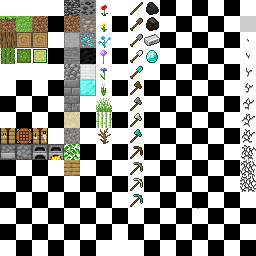
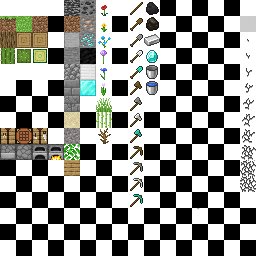
adding buckets, not usable yet

Changed region(s): [[0.5625, 0.25, 0.625, 0.375], [0.4375, 0.9375, 0.5, 1.0]]

diff --git a/Includes/Blocks.hpp b/Includes/Blocks.hpp
@@ -52,6 +52,8 @@ enum blocks {
 	CHARCOAL,
 	IRON_INGOT,
 	DIAMOND,
+	BUCKET,
+	WATER_BUCKET,
 	NOTVISIBLE = 1000
 };
 
@@ -698,6 +700,21 @@ struct Diamond : Block {
 		}
 };
 
+struct Bucket : Block {
+	public:
+		Bucket() {
+			name = "BUCKET";
+		}
+};
+
+struct WaterBucket : Block {
+	public:
+		WaterBucket() {
+			name = "WATER_BUCKET";
+			stackable = false;
+		}
+};
+
 const Block s_blocks[112] = {
 	Air(), GrassBlock(), OakLog(), Cactus(), TBD(), TBD(), TBD(), TBD(), CraftingTable(), Furnace(), TBD(), TBD(), TBD(), TBD(), TBD(), TBD(),
 	Bedrock(), Dirt(), SmoothStone(), Stone(), Cobblestone(), StoneBrick(), CrackedStoneBrick(), Sand(), Gravel(), OakLeaves(), OakPlanks(), TBD(), TBD(), TBD(), TBD(), TBD(),
@@ -705,6 +722,6 @@ const Block s_blocks[112] = {
 	Poppy(), Dandelion(), BlueOrchid(), Allium(), CornFlower(), PinkTulip(), Grass(), SugarCane(), DeadBush(), TBD(), TBD(), TBD(), TBD(), TBD(), TBD(), TBD(),
 	TBD(), TBD(), TBD(), TBD(), TBD(), TBD(), TBD(), TBD(), TBD(), TBD(), TBD(), TBD(), TBD(), TBD(), Water(), TBD(),
 	Stick(), WoodenShovel(), StoneShovel(), IronShovel(), DiamondShovel(), WoodenAxe(), StoneAxe(), IronAxe(), DiamondAxe(), WoodenPickaxe(), StonePickaxe(), IronPickaxe(), DiamondPickaxe(), TBD(), TBD(), TBD(),
-	Coal(), Charcoal(), IronIngot(), Diamond(), TBD(), TBD(), TBD(), TBD(), TBD(), TBD(), TBD(), TBD(), TBD(), TBD(), TBD(), TBD(),
+	Coal(), Charcoal(), IronIngot(), Diamond(), Bucket(), WaterBucket(), TBD(), TBD(), TBD(), TBD(), TBD(), TBD(), TBD(), TBD(), TBD(), TBD(),
 };
 #endif

diff --git a/Includes/Inventory.hpp b/Includes/Inventory.hpp
@@ -2,7 +2,7 @@
 # define INVENTORY_HPP
 
 # define IRECEIPT_SIZE 20
-# define RECEIPT_SIZE 66
+# define RECEIPT_SIZE 67
 
 const int ireceipt[IRECEIPT_SIZE][6] = {
 	{blocks::AIR, blocks::AIR, blocks::AIR, blocks::OAK_LOG, blocks::OAK_PLANKS, 4},
@@ -56,6 +56,7 @@ const int receipt[RECEIPT_SIZE][11] = {
 	{blocks::AIR, blocks::AIR, blocks::AIR, blocks::AIR, blocks::STONE, blocks::STONE, blocks::AIR, blocks::STONE, blocks::STONE, blocks::STONE_BRICKS, 4},
 	
 	{blocks::COBBLESTONE, blocks::COBBLESTONE, blocks::COBBLESTONE, blocks::COBBLESTONE, blocks::AIR, blocks::COBBLESTONE, blocks::COBBLESTONE, blocks::COBBLESTONE, blocks::COBBLESTONE, blocks::FURNACE, 1},
+	{blocks::AIR, blocks::AIR, blocks::AIR, blocks::IRON_INGOT, blocks::AIR, blocks::IRON_INGOT, blocks::AIR, blocks::IRON_INGOT, blocks::AIR, blocks::BUCKET, 1},
 
 	{blocks::AIR, blocks::OAK_PLANKS, blocks::AIR, blocks::AIR, blocks::STICK, blocks::AIR, blocks::AIR, blocks::STICK, blocks::AIR, blocks::WOODEN_SHOVEL, 1},
 	{blocks::AIR, blocks::COBBLESTONE, blocks::AIR, blocks::AIR, blocks::STICK, blocks::AIR, blocks::AIR, blocks::STICK, blocks::AIR, blocks::STONE_SHOVEL, 1},
